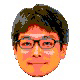
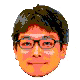
fix: round tuchiya shield and clean face cutouts

diff --git a/host/block_breaker.py b/host/block_breaker.py
@@ -1419,13 +1419,9 @@ class BlockBreaker:
                 boss_region[self.boss_mask] = FC6_WHITE
         if self.boss_profile.barrier_hits_required and not self.barrier_broken:
             barrier_color = 0x16 if (self.barrier_hits + int(time.monotonic() * 8)) % 2 else 0x0E
-            cv2.rectangle(
-                frame,
-                (max(0, boss_x - 3), max(24, boss_y - 3)),
-                (min(CANVAS_WIDTH - 1, boss_x + self.boss_width + 2), min(CANVAS_HEIGHT - 1, boss_y + self.boss_height + 2)),
-                barrier_color,
-                1,
-            )
+            shield_center = (boss_x + self.boss_width // 2, boss_y + self.boss_height // 2)
+            shield_radius = max(self.boss_width, self.boss_height) // 2 + 7
+            cv2.circle(frame, shield_center, shield_radius, barrier_color, 2, lineType=cv2.LINE_8)
             self._center_text(frame, f"BARRIER {self.barrier_hits}/{self.boss_profile.barrier_hits_required}", 174, TEXT, .34)
         if self.boss_profile.critical_hits_required and not self.boss_defeated:
             critical_x, critical_y = self._critical_point()
